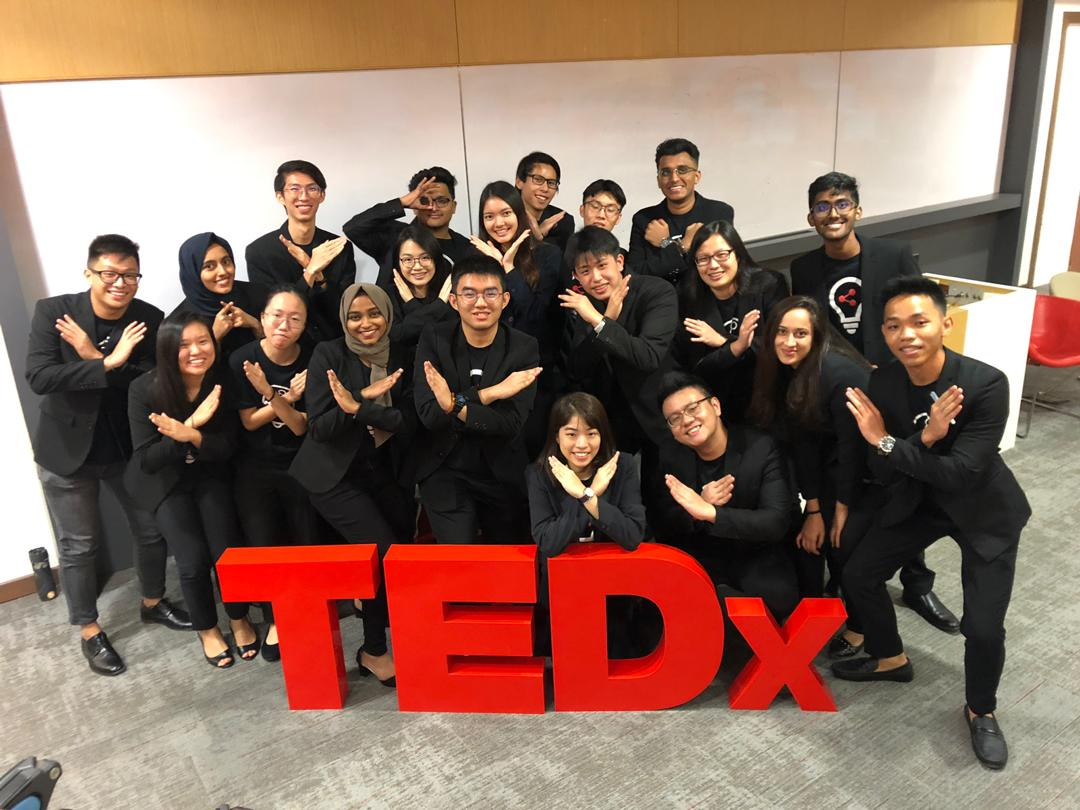
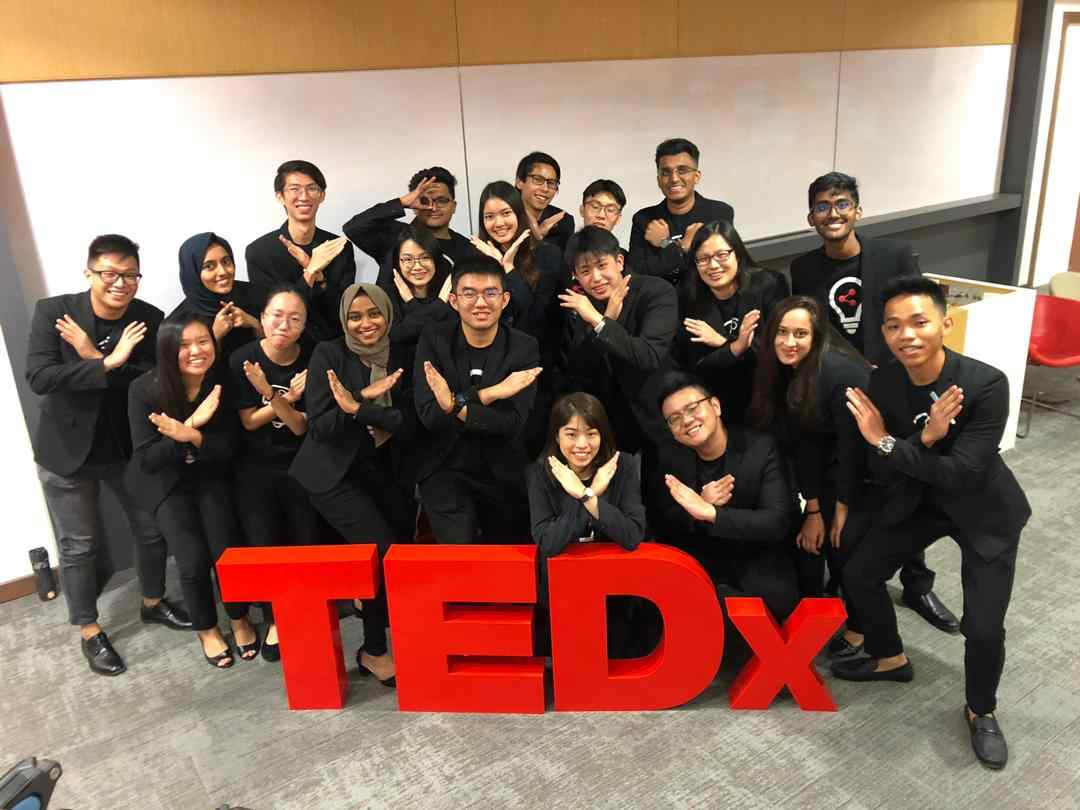
compressed extracurricular image sizes

Changed region(s): [[0.3667, 0.3086, 0.3972, 0.3704], [0.5194, 0.3395, 0.55, 0.3704], [0.4583, 0.2778, 0.4889, 0.3086]]

diff --git a/src/components/Extracurriculars/Extracurriculars.scss b/src/components/Extracurriculars/Extracurriculars.scss
@@ -63,7 +63,7 @@
 
                 .sue {
                     height: 50%;
-                    background: url("./images/sue.png");
+                    background: url("./images/sue.jpg");
                     background-position: center;
                     background-size: 105%;
 
@@ -86,7 +86,7 @@
 
                 .rc {
                     height: 100%;
-                    background: url("./images/rc.png"); 
+                    background: url("./images/rc.jpg"); 
                     background-position: center;
                     background-size: 100%;
 
@@ -112,7 +112,7 @@
 
                 .piano {
                     height: 100%;
-                    background: url("./images/piano.png");
+                    background: url("./images/piano.jpg");
                     background-size: auto 100%;
                     background-position: center;
                     background-repeat: no-repeat;

diff --git a/src/components/Extracurriculars/images/export_images.js b/src/components/Extracurriculars/images/export_images.js
@@ -1,4 +1,4 @@
-export {default as piano} from './piano.png';
+export {default as piano} from './piano.jpg';
 export {default as rc} from './rc.jpg';
 export {default as sue} from './sue.jpg';
 export {default as tedx} from './tedx.jpg';
